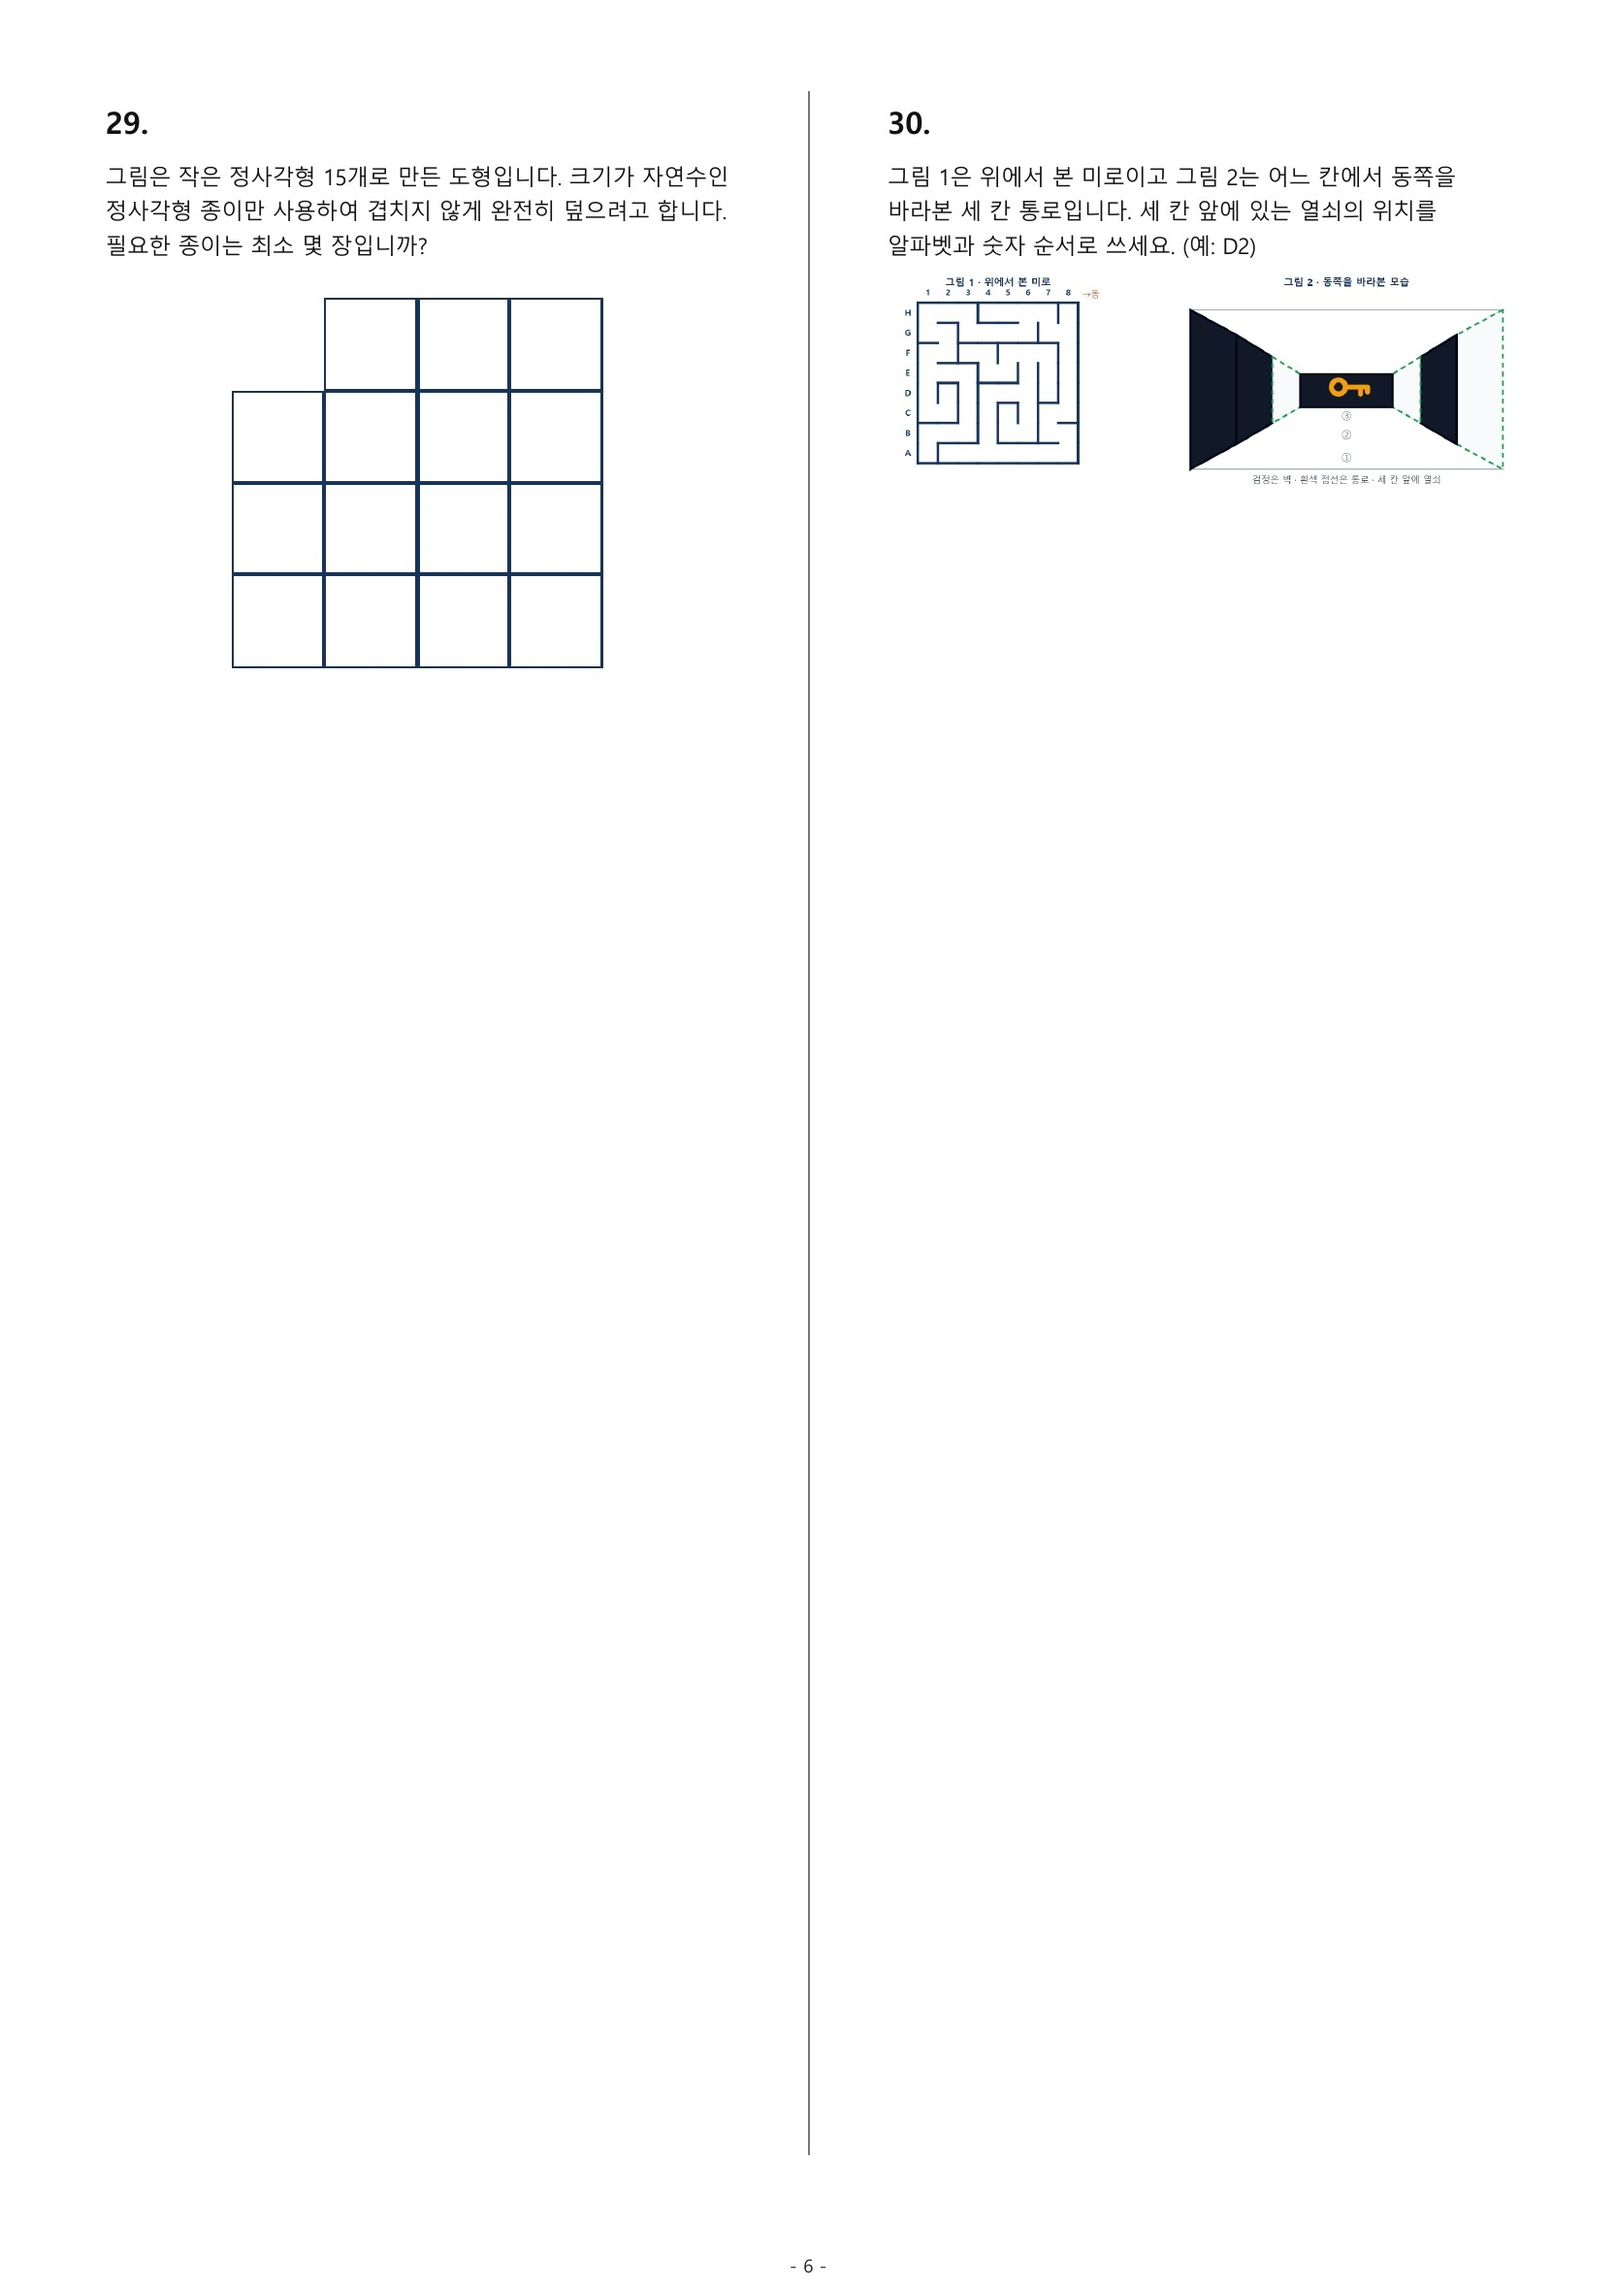
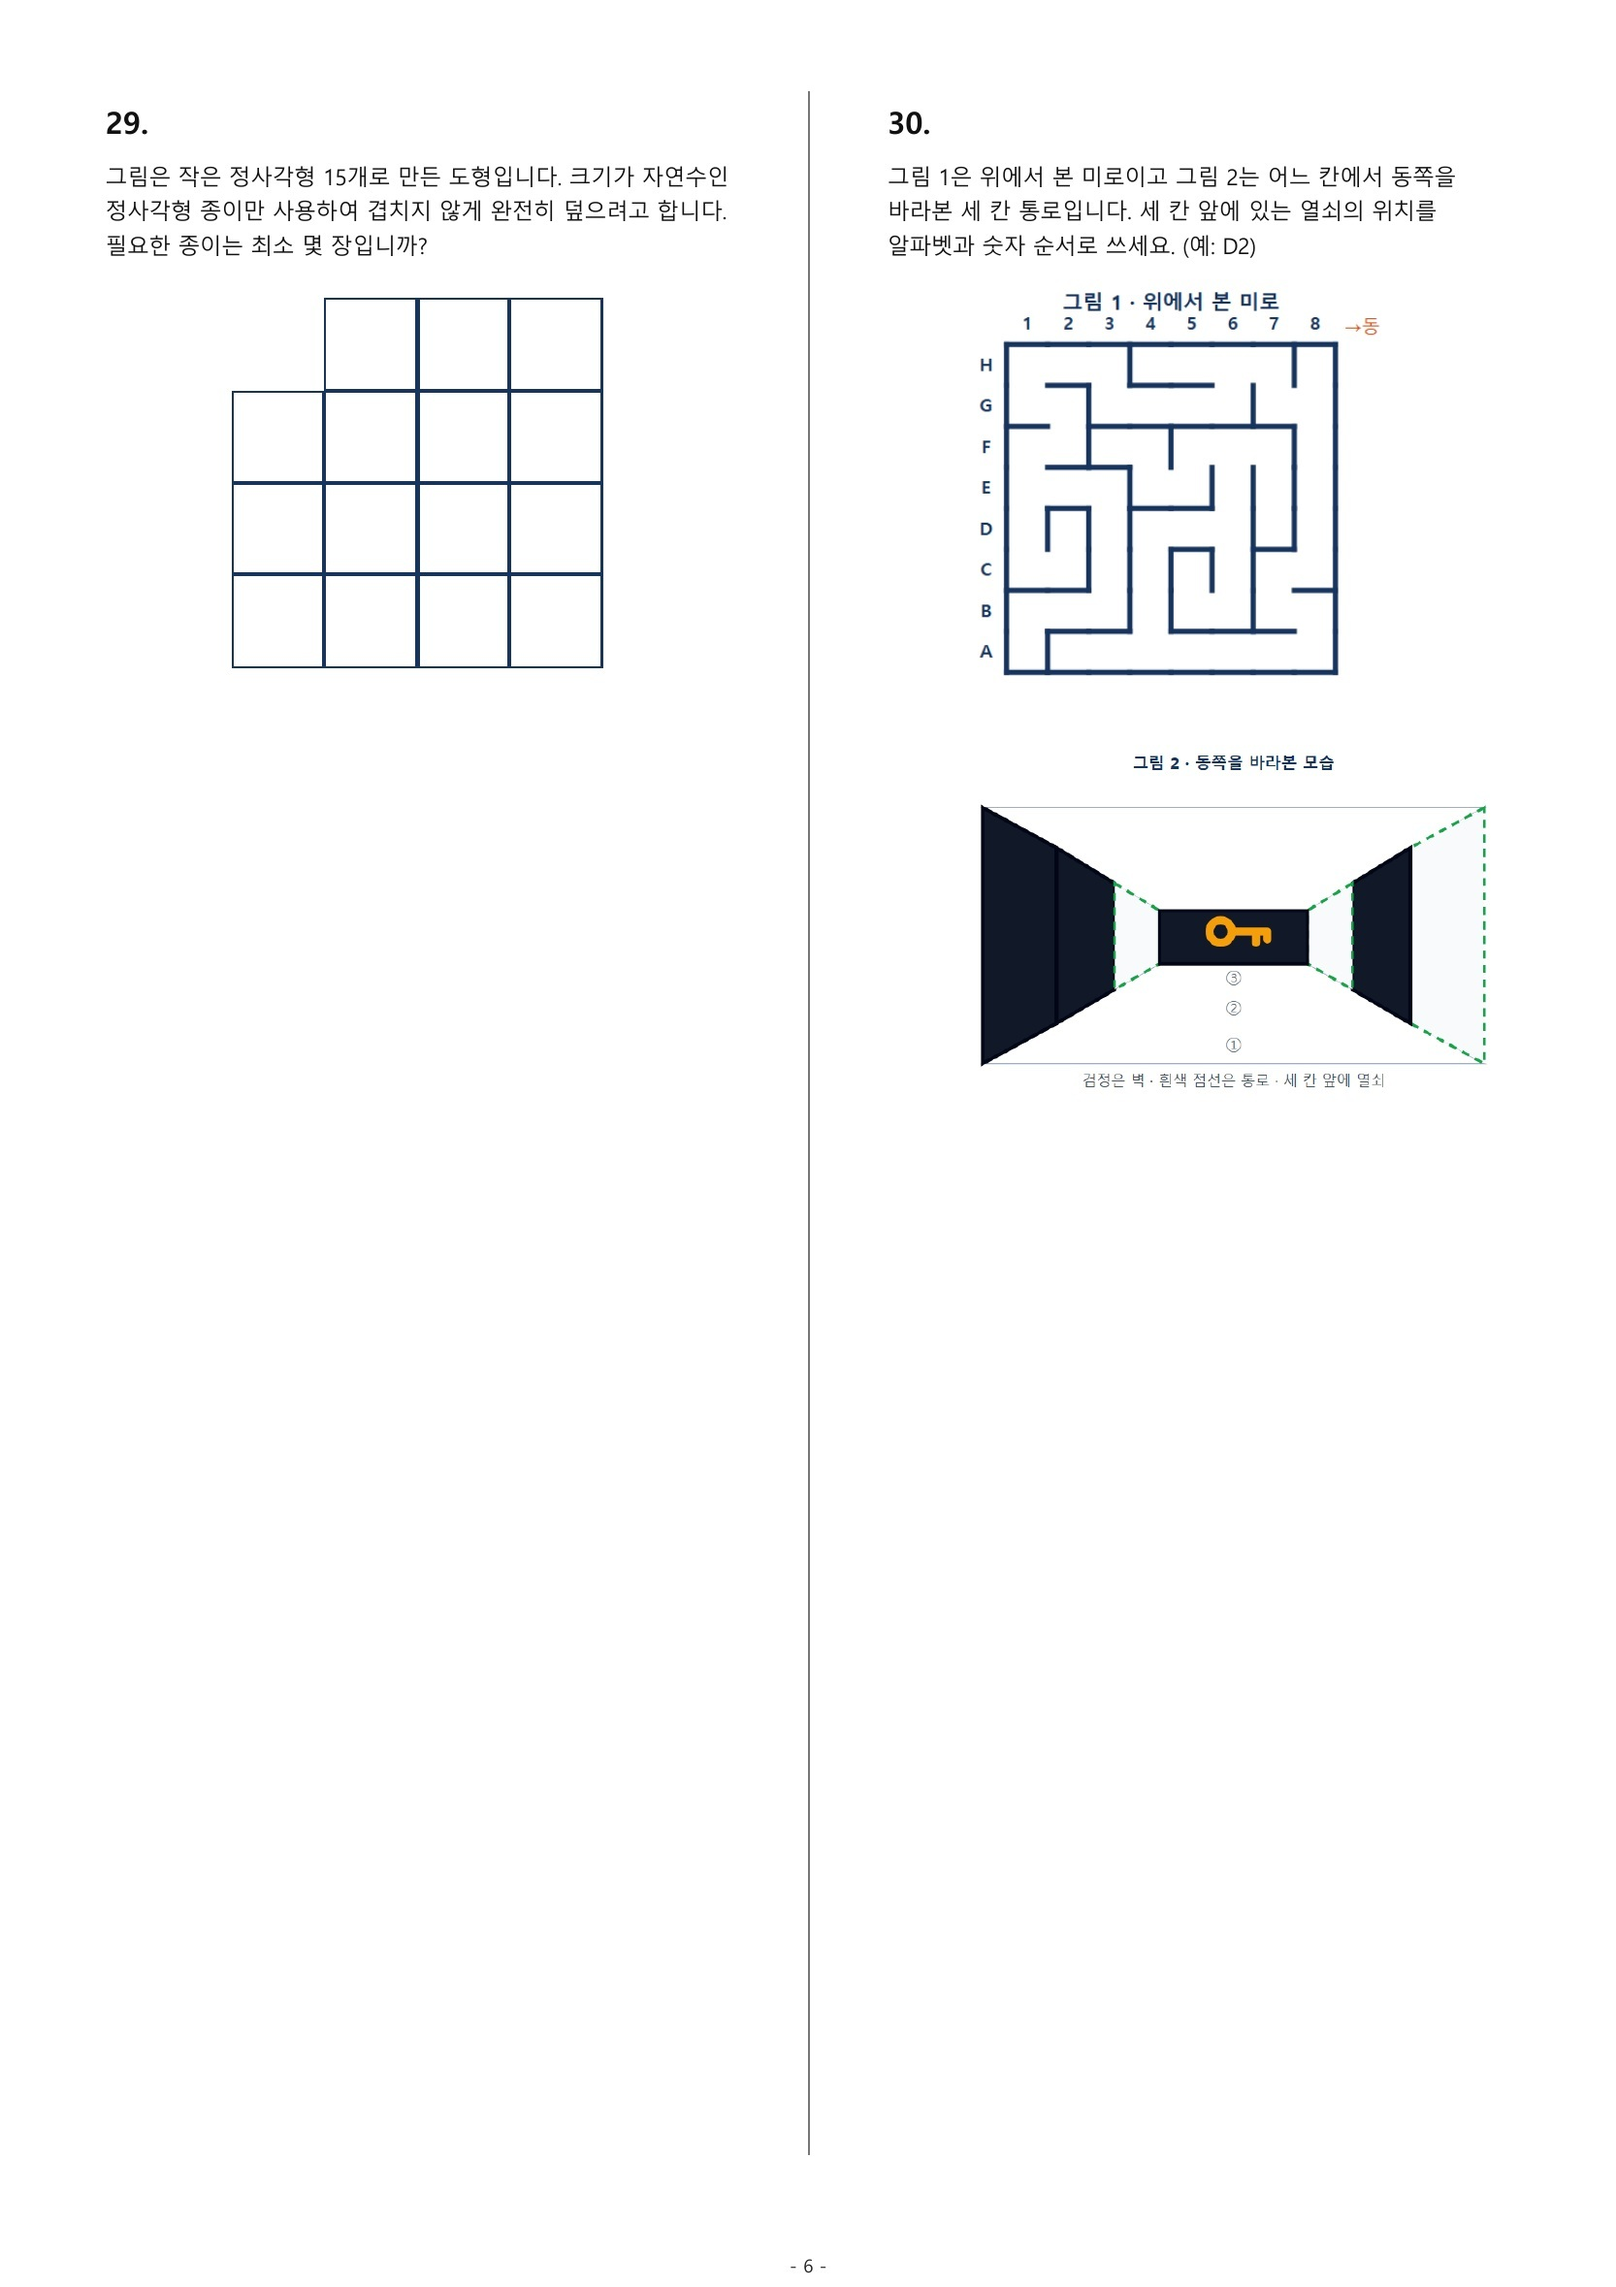
Enlarge original-form question 30 maze

Changed region(s): [[0.5618, 0.1238, 0.9052, 0.3096], [0.593, 0.3405, 0.8739, 0.4644]]

diff --git a/qa/original-form-raster-art-validate.js b/qa/original-form-raster-art-validate.js
@@ -79,6 +79,8 @@ assert.match(renderer, /blue-car-side\.jpg/, '2회 자동차는 실제 자동차
 assert.match(renderer, /q11-fish-path\.png/, '2회 11번은 사용자 제공 실제 기출 물고기 그림 사용');
 assert.match(renderer, /cssDigitalSegments = \{[^}]*7:'abcf'/, '2회 26번 숫자 7은 가운데 가로칸 대신 왼쪽 위 세로칸을 켠 네 칸 표시');
 assert.match(renderer, /사용자 제공 실제 기출 이미지 구조 변형 · 디지털 숫자'[\s\S]*?digitalDisplayCssFigure\(\)[\s\S]*?'tall'/, '2회 26번은 같은 7칸 틀의 CSS 디지털 숫자를 사용');
+assert.match(renderer, /function round2MazeStackedFigure\(\)[\s\S]*?round2-maze-crop map[\s\S]*?round2-maze-crop view/, '2회 30번 미로와 통로를 원본 래스터에서 나눠 세로로 크게 배치');
+assert.match(renderer, /사용자 제공 실제 기출 이미지 구조 변형 · 미로'[\s\S]*?round2MazeStackedFigure\(\)[\s\S]*?'maze-column'/, '2회 30번은 전체 세로 지면을 사용하는 큰 미로 배치');
 
 const slipperComposite = fs.readFileSync(path.join(PRIVATE, 'slipper-composite-v7.html'), 'utf8');
 const slipperTags = [...slipperComposite.matchAll(/<img class="shoe"[^>]+>/g)].map((match) => match[0]);
